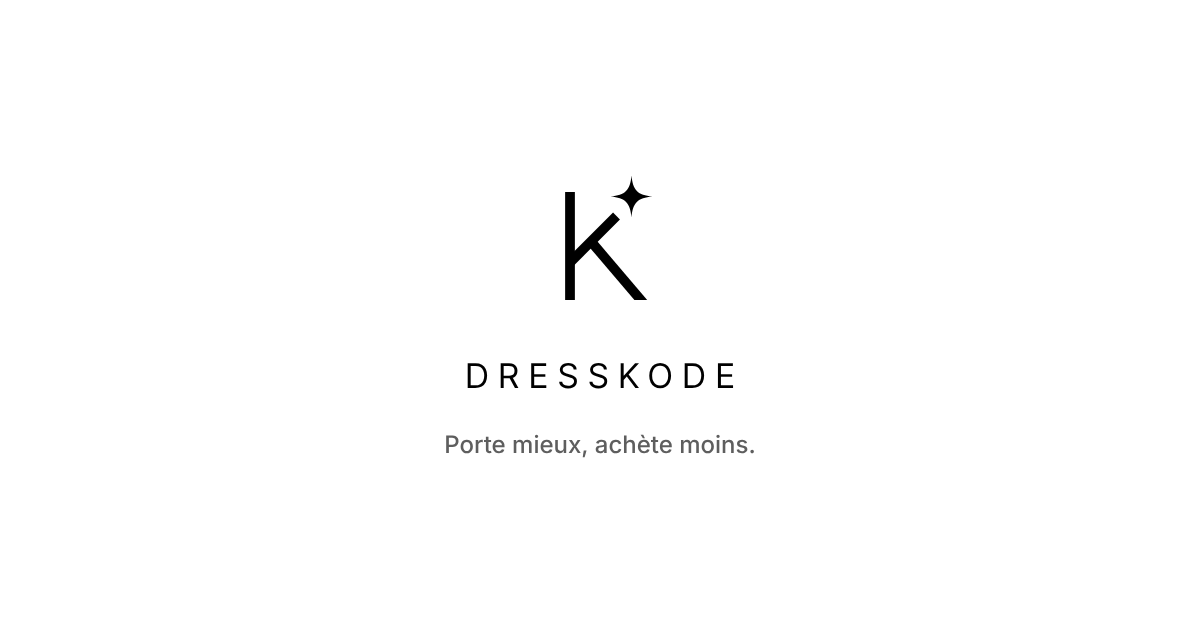
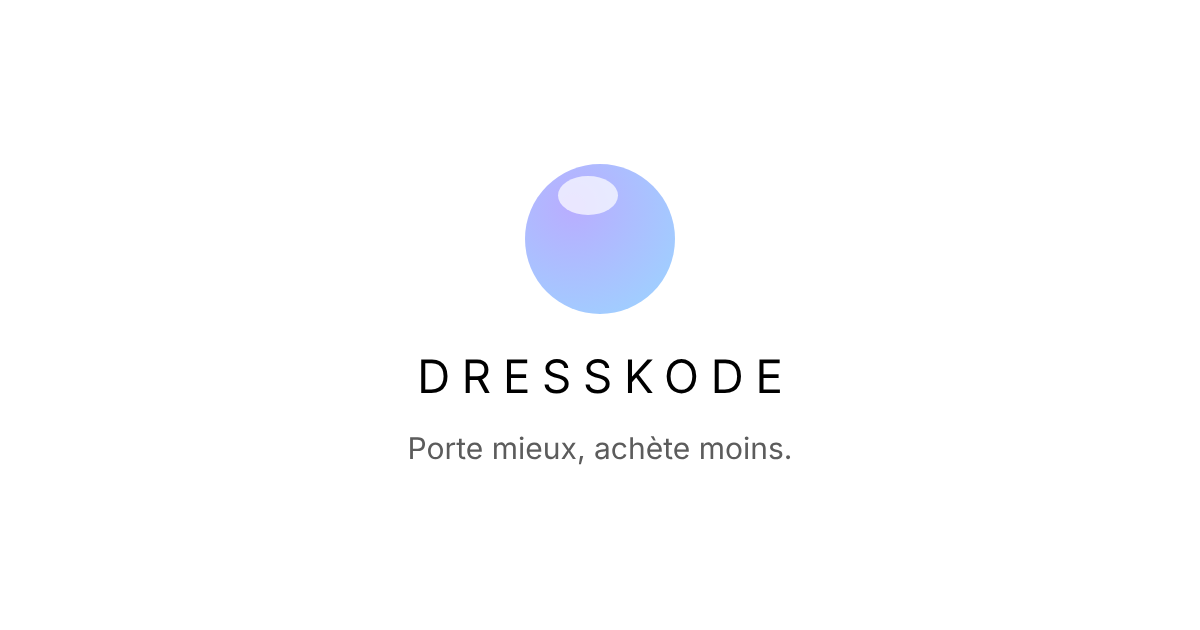
Web : l'orbe remplace le K, nouvelle intro
- Logo : l'orbe (dégradé lavande vers ciel, reflet) remplace le K étoilé.
- Intro : l'orbe apparaît, son reflet tourne, DRESSKODE se resserre,
  puis la caméra plonge dans l'orbe.
- Icônes, favicon, icône Apple, icônes web et image de partage
  régénérées à partir du même dessin.

Claude-Session: https://claude.ai/code/session_017EdprxiaToN2E9w5S65h9H

Changed region(s): [[0.4317, 0.2413, 0.5858, 0.5127], [0.3392, 0.573, 0.6475, 0.6333], [0.3392, 0.6937, 0.6475, 0.7238]]

diff --git a/web/src/app/globals.css b/web/src/app/globals.css
@@ -247,7 +247,7 @@ h1, h2, h3 {
   text-transform: uppercase;
   color: var(--ink);
 }
-/* Le monogramme (K étoilé) devant la marque ; il suit la couleur du texte. */
+/* Le monogramme (l'orbe) devant la marque. */
 .brand-lockup { display: inline-flex; align-items: center; gap: 10px; color: var(--ink); }
 
 /* L'ancien « mot qui chante » : il garde la police du titre qui le porte. */
@@ -1308,12 +1308,11 @@ textarea.input { border-radius: 22px; padding: 14px 18px; }
 }
 
 /* ============================================================
-   L'intro (13/10, components/Intro.tsx), une fois par visite.
-   Chaque pièce garde son état final comme style de base ; les images-clés
-   partent de l'état initial (`both`) : sans animation, tout est en place.
-   0,15 s le fût se coud · 0,55 s les branches · 0,95 s l'étincelle
-   s'allume · 1,0 s la couture se pique · 1,1 s DRESSKODE se resserre ·
-   1,95 s la caméra plonge dans le K · 2,25 s le rideau s'efface.
+   L'intro (25/10, components/Intro.tsx), une fois par visite : l'orbe
+   apparaît, son reflet fait le tour de la sphère, DRESSKODE se resserre,
+   puis la caméra plonge dans l'orbe et le rideau s'efface.
+   0,1 s l'orbe apparaît · 0,6 s son reflet tourne · 1,1 s DRESSKODE se
+   resserre · 1,95 s la caméra plonge · 2,25 s le rideau s'efface.
    ============================================================ */
 .intro {
   position: fixed;
@@ -1331,59 +1330,40 @@ textarea.input { border-radius: 22px; padding: 14px 18px; }
 .intro-leaving { animation: intro-out 0.25s ease both; }
 .intro-stage {
   display: flex; flex-direction: column; align-items: center; gap: 22px;
-  /* Une lente avancée de caméra pendant que le logo se coud, avant la plongée. */
+  /* Une lente avancée de caméra pendant que l'orbe apparaît, avant la plongée. */
   animation: intro-push 1.9s cubic-bezier(0.22, 1, 0.36, 1) both;
 }
-.intro-mark {
+/* La plongée est sur un enrobage : l'entrée de l'orbe garde son propre
+   transform, sans être écrasée par l'agrandissement. */
+.intro-dive {
   display: block;
-  overflow: visible;
-  transform-origin: 62% 52%;
   animation: intro-zoom 0.7s cubic-bezier(0.7, 0, 0.84, 0) 1.95s both;
 }
-/* Le tracé se coud par un tiret de 100 unités du viewBox, plus long que chaque
-   trait (72, 44 et 59) : pas de pathLength, que Safari iOS applique mal aux
-   tirets posés en CSS (le K n'y apparaissait pas en entier). */
-.intro-stroke { stroke-dasharray: 100; stroke-dashoffset: 0; }
-.intro-stem { animation: intro-draw 0.5s cubic-bezier(0.65, 0, 0.35, 1) 0.15s both; }
-.intro-up { animation: intro-draw 0.36s cubic-bezier(0.33, 1, 0.68, 1) 0.55s both; }
-.intro-lo { animation: intro-draw 0.42s cubic-bezier(0.33, 1, 0.68, 1) 0.62s both; }
-.intro-spark {
-  transform-box: fill-box;
-  transform-origin: center;
-  animation: intro-spark 0.6s cubic-bezier(0.34, 1.56, 0.64, 1) 0.95s both;
+.intro-orb {
+  display: block;
+  overflow: visible;
+  animation: intro-orb-in 0.6s cubic-bezier(0.34, 1.56, 0.64, 1) 0.1s both;
 }
+/* Le reflet tourne autour du centre, rogné par le disque : l'orbe a l'air de tourner. */
 .intro-glint {
-  transform-box: fill-box;
-  transform-origin: center;
-  opacity: 0;
-  animation: intro-glint 0.7s cubic-bezier(0.22, 1, 0.36, 1) 1.05s both;
-}
-/* La couture : un point piqué, comme sur une étiquette cousue. */
-.intro-seam {
-  width: 132px;
-  height: 0;
-  border-top: 1px dashed currentColor;
-  opacity: 0.55;
-  transform-origin: left center;
-  animation: intro-seam 0.5s cubic-bezier(0.65, 0, 0.35, 1) 1s both, intro-fade 0.2s ease 1.95s forwards;
+  transform-box: view-box;
+  transform-origin: 50px 50px;
+  animation: intro-spin 0.9s cubic-bezier(0.65, 0, 0.35, 1) 0.6s both;
 }
 .intro-word {
   font-size: 15px;
   margin-right: -0.3em; /* l'interlettrage final ne décentre pas le mot */
   animation: intro-word 0.75s cubic-bezier(0.22, 1, 0.36, 1) 1.1s both, intro-fade 0.2s ease 1.95s forwards;
 }
-@keyframes intro-draw { from { stroke-dashoffset: 100; } }
-@keyframes intro-spark {
-  from { transform: scale(0) rotate(-120deg); opacity: 0; }
-  55% { opacity: 1; }
-  to { transform: scale(1) rotate(0deg); opacity: 1; }
+@keyframes intro-orb-in {
+  from { transform: scale(0); opacity: 0; }
+  60% { opacity: 1; }
+  to { transform: scale(1); opacity: 1; }
 }
-@keyframes intro-glint {
-  from { transform: scale(0.4); opacity: 0; }
-  30% { opacity: 0.45; }
-  to { transform: scale(2.4); opacity: 0; }
+@keyframes intro-spin {
+  from { transform: rotate(0deg); }
+  to { transform: rotate(360deg); }
 }
-@keyframes intro-seam { from { transform: scaleX(0); } }
 @keyframes intro-word {
   from { letter-spacing: 0.9em; margin-right: -0.9em; opacity: 0; filter: blur(6px); }
 }
@@ -1393,7 +1373,7 @@ textarea.input { border-radius: 22px; padding: 14px 18px; }
 @keyframes intro-out { to { opacity: 0; visibility: hidden; } }
 @media (prefers-reduced-motion: reduce) {
   .intro { animation: intro-out 0.4s ease 0.7s both; }
-  .intro-stage, .intro-mark, .intro-stroke, .intro-spark, .intro-glint, .intro-seam, .intro-word { animation: none; }
+  .intro-stage, .intro-dive, .intro-orb, .intro-glint, .intro-word { animation: none; }
 }
 
 /* ============================================================

diff --git a/web/src/components/Intro.tsx b/web/src/components/Intro.tsx
@@ -1,7 +1,7 @@
 'use client';
 
 import { useEffect, useState } from 'react';
-import { K } from '@/components/Logo';
+import { ORBE } from '@/components/Logo';
 
 const SEEN = 'dk-intro';
 const LENGTH = 2900;
@@ -14,12 +14,12 @@ const LENGTH = 2900;
 export const INTRO_SCRIPT = `try{if(sessionStorage.getItem('${SEEN}')==='1')document.documentElement.classList.add('intro-vu')}catch(e){}`;
 
 /**
- * L'intro (13/10), une fois par visite : le K se coud trait par trait,
- * l'étincelle de Kodi s'allume, une couture se pique, DRESSKODE se resserre,
- * puis la caméra plonge dans le K et l'app apparaît derrière (la mascotte
- * qui s'y ajoutait le 21/10 a été abandonnée le 25/10). Noir sur blanc
- * en clair, blanc sur noir en sombre. Un toucher ou Échap la passe ;
- * « Réduire les animations » la réduit à un fondu (`globals.css`, `.intro`).
+ * L'intro (25/10), une fois par visite : l'orbe apparaît et se met à tourner
+ * (son reflet fait le tour de la sphère), DRESSKODE se resserre dessous, puis
+ * la caméra plonge dans l'orbe et l'app apparaît derrière. Noir sur blanc
+ * en clair, blanc sur noir en sombre (le fond suit le thème). Un toucher ou
+ * Échap la passe ; « Réduire les animations » la réduit à un fondu
+ * (`globals.css`, `.intro`).
  */
 export function Intro() {
   const [state, setState] = useState<'on' | 'leaving' | 'gone'>('on');
@@ -56,21 +56,23 @@ export function Intro() {
   return (
     <div className={state === 'leaving' ? 'intro intro-leaving' : 'intro'} aria-hidden="true" onClick={() => setState('leaving')}>
       <div className="intro-stage">
-        <svg className="intro-mark" viewBox="0 0 100 100" width="128" height="128">
+        <div className="intro-dive">
+        <svg className="intro-orb" viewBox="0 0 100 100" width="128" height="128">
           <defs>
-            <clipPath id="intro-clip">
-              <rect x="0" y="14" width="100" height="72" />
+            <radialGradient id="intro-orbe" cx="32%" cy="28%" r="85%">
+              <stop offset="0%" stopColor={ORBE.from} />
+              <stop offset="100%" stopColor={ORBE.to} />
+            </radialGradient>
+            <clipPath id="intro-disc">
+              <circle cx="50" cy="50" r="50" />
             </clipPath>
           </defs>
-          <g clipPath="url(#intro-clip)" fill="none" stroke="currentColor" strokeWidth="6.5">
-            <path className="intro-stroke intro-stem" d="M30 86V14" />
-            <path className="intro-stroke intro-up" d="M30 61L61 30" />
-            <path className="intro-stroke intro-lo" d="M44 47L82.3 92" />
+          <circle cx="50" cy="50" r="50" fill="url(#intro-orbe)" />
+          <g clipPath="url(#intro-disc)">
+            <ellipse className="intro-glint" cx={ORBE.glint.cx} cy={ORBE.glint.cy} rx={ORBE.glint.rx} ry={ORBE.glint.ry} fill="#ffffff" fillOpacity={0.7} />
           </g>
-          <circle className="intro-glint" cx="71" cy="17" r="14" fill="none" stroke="currentColor" strokeWidth="0.8" />
-          <path className="intro-spark" d={K.spark} fill="currentColor" />
         </svg>
-        <i className="intro-seam" />
+        </div>
         <span className="brand intro-word">Dresskode</span>
       </div>
     </div>

diff --git a/web/src/components/Logo.tsx b/web/src/components/Logo.tsx
@@ -1,26 +1,23 @@
 import type { CSSProperties } from 'react';
 
 /**
- * Le logo de Dresskode (piste A validée le 13/10, `design/logo/`) : un K fin
- * dont la branche haute s'arrête sur l'étincelle de Kodi. Le K suit la
- * couleur du texte (noir en clair, blanc en sombre) ; l'étincelle aussi, sauf
- * sur fond noir où elle peut passer en rose poudré (`sparkle="var(--butter)"`).
+ * Le logo de Dresskode (25/10, `design/logo/`) : l'orbe de Kodi, une sphère
+ * lavande vers ciel avec son reflet. Il remplace le K étoilé (13/10), retiré
+ * à la demande de l'utilisateur. Le dégradé est celui de l'orbe au repos
+ * (`STEP_COLORS.look` dans components/Orb.tsx).
  */
-export const K = {
-  stem: 'M26.75 14H33.25V86H26.75Z',
-  upper: 'M32.3 63.3L63.3 32.3L58.7 27.7L27.7 58.7Z',
-  lower: 'M41.53 49.11L72.93 86L81.47 86L46.48 44.89Z',
-  spark: 'M71 3C72 13 75 16 85 17C75 18 72 21 71 31C70 21 67 18 57 17C67 16 70 13 71 3Z',
+export const ORBE = {
+  from: '#b9adff',
+  to: '#9fd0ff',
+  glint: { cx: 42, cy: 21, rx: 20, ry: 13 },
 };
 
 export function Monogram({
   size = 40,
-  sparkle = 'currentColor',
   label,
   style,
 }: {
   size?: number;
-  sparkle?: string;
   /** Sans libellé, le monogramme est décoratif (le nom est écrit à côté). */
   label?: string;
   style?: CSSProperties;
@@ -30,14 +27,17 @@ export function Monogram({
       width={size}
       height={size}
       viewBox="0 0 100 100"
-      fill="currentColor"
       style={{ display: 'block', flexShrink: 0, ...style }}
       {...(label ? { role: 'img', 'aria-label': label } : { 'aria-hidden': true })}
     >
-      <path d={K.stem} />
-      <path d={K.upper} />
-      <path d={K.lower} />
-      <path d={K.spark} fill={sparkle} />
+      <defs>
+        <radialGradient id="dk-orbe" cx="32%" cy="28%" r="85%">
+          <stop offset="0%" stopColor={ORBE.from} />
+          <stop offset="100%" stopColor={ORBE.to} />
+        </radialGradient>
+      </defs>
+      <circle cx="50" cy="50" r="50" fill="url(#dk-orbe)" />
+      <ellipse cx={ORBE.glint.cx} cy={ORBE.glint.cy} rx={ORBE.glint.rx} ry={ORBE.glint.ry} fill="#ffffff" fillOpacity={0.7} />
     </svg>
   );
 }

diff --git a/web/src/app/layout.tsx b/web/src/app/layout.tsx
@@ -9,7 +9,7 @@ export const metadata: Metadata = {
   description: 'Ta garde-robe numérique et ton styliste IA. Porte mieux, achète moins.',
   applicationName: 'Dresskode',
   // iOS ignore le manifest pour le mode plein écran. Les icônes viennent des
-  // fichiers app/icon.svg et app/apple-icon.png (le K étoilé).
+  // fichiers app/icon.svg et app/apple-icon.png (l'orbe).
   appleWebApp: { capable: true, title: 'Dresskode', statusBarStyle: 'default' },
 };
 

diff --git a/web/src/app/manifest.ts b/web/src/app/manifest.ts
@@ -1,6 +1,6 @@
 import type { MetadataRoute } from 'next';
 
-/** Pour « Ajouter à l'écran d'accueil » : le nom, les couleurs de la galerie et l'icône du K étoilé. */
+/** Pour « Ajouter à l'écran d'accueil » : le nom, les couleurs de la galerie et l'icône de l'orbe. */
 export default function manifest(): MetadataRoute.Manifest {
   return {
     name: 'Dresskode',
